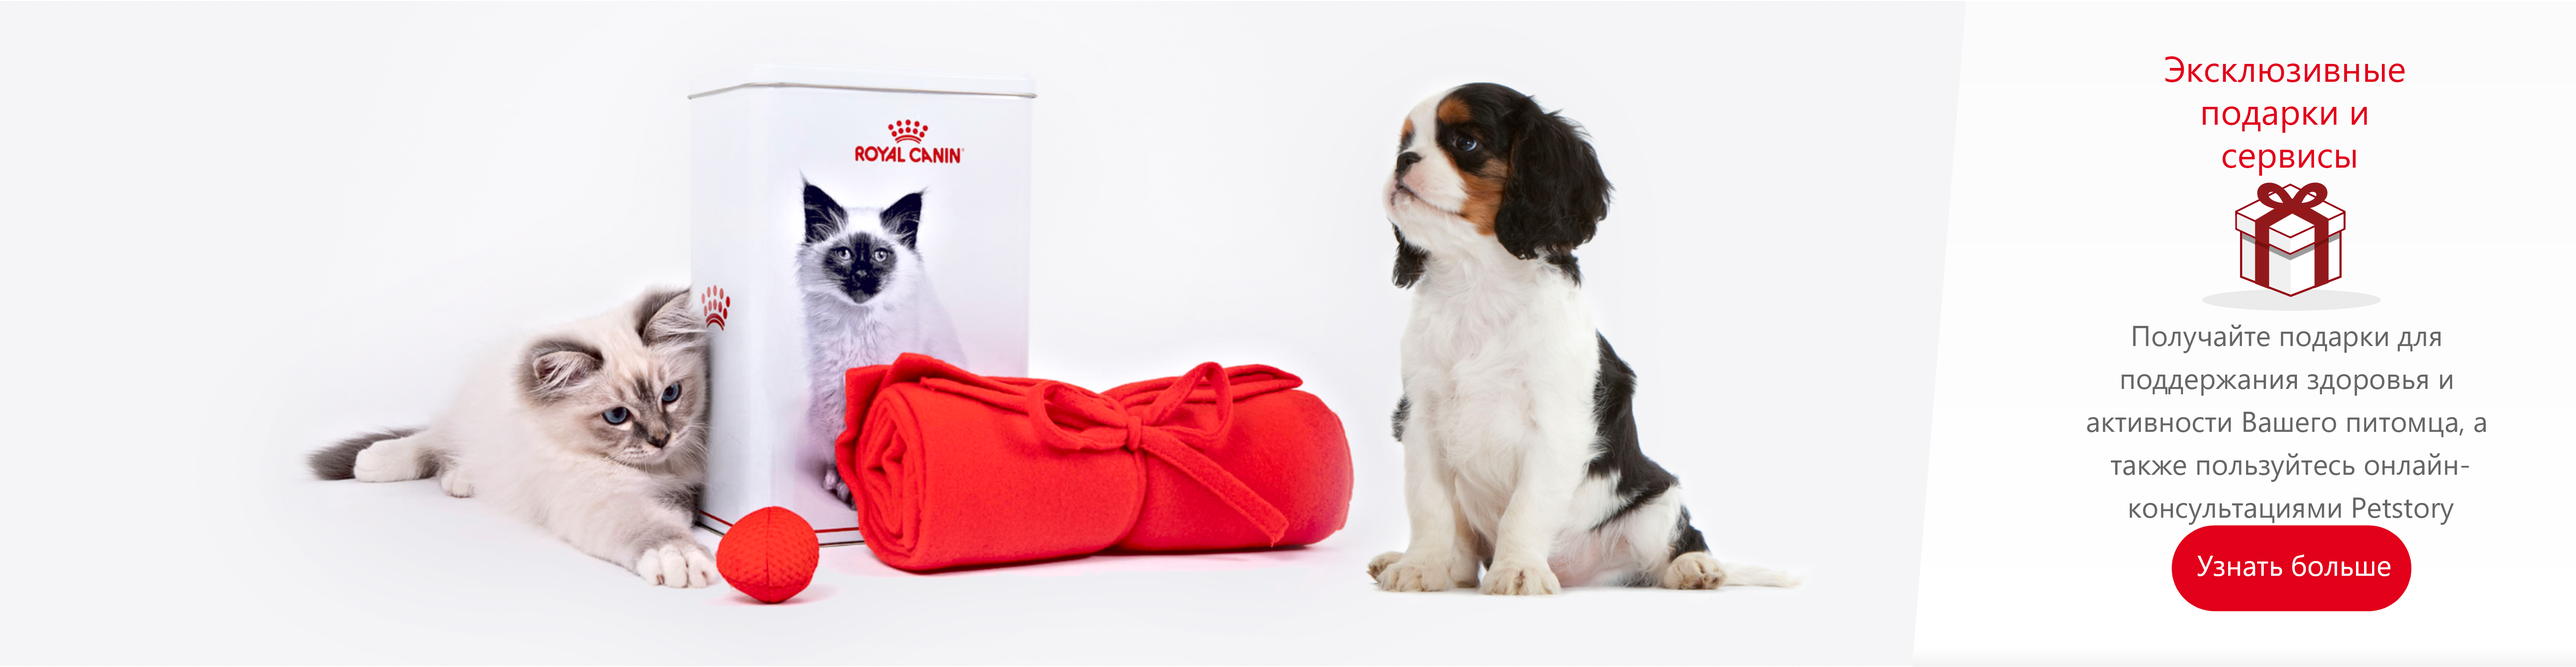
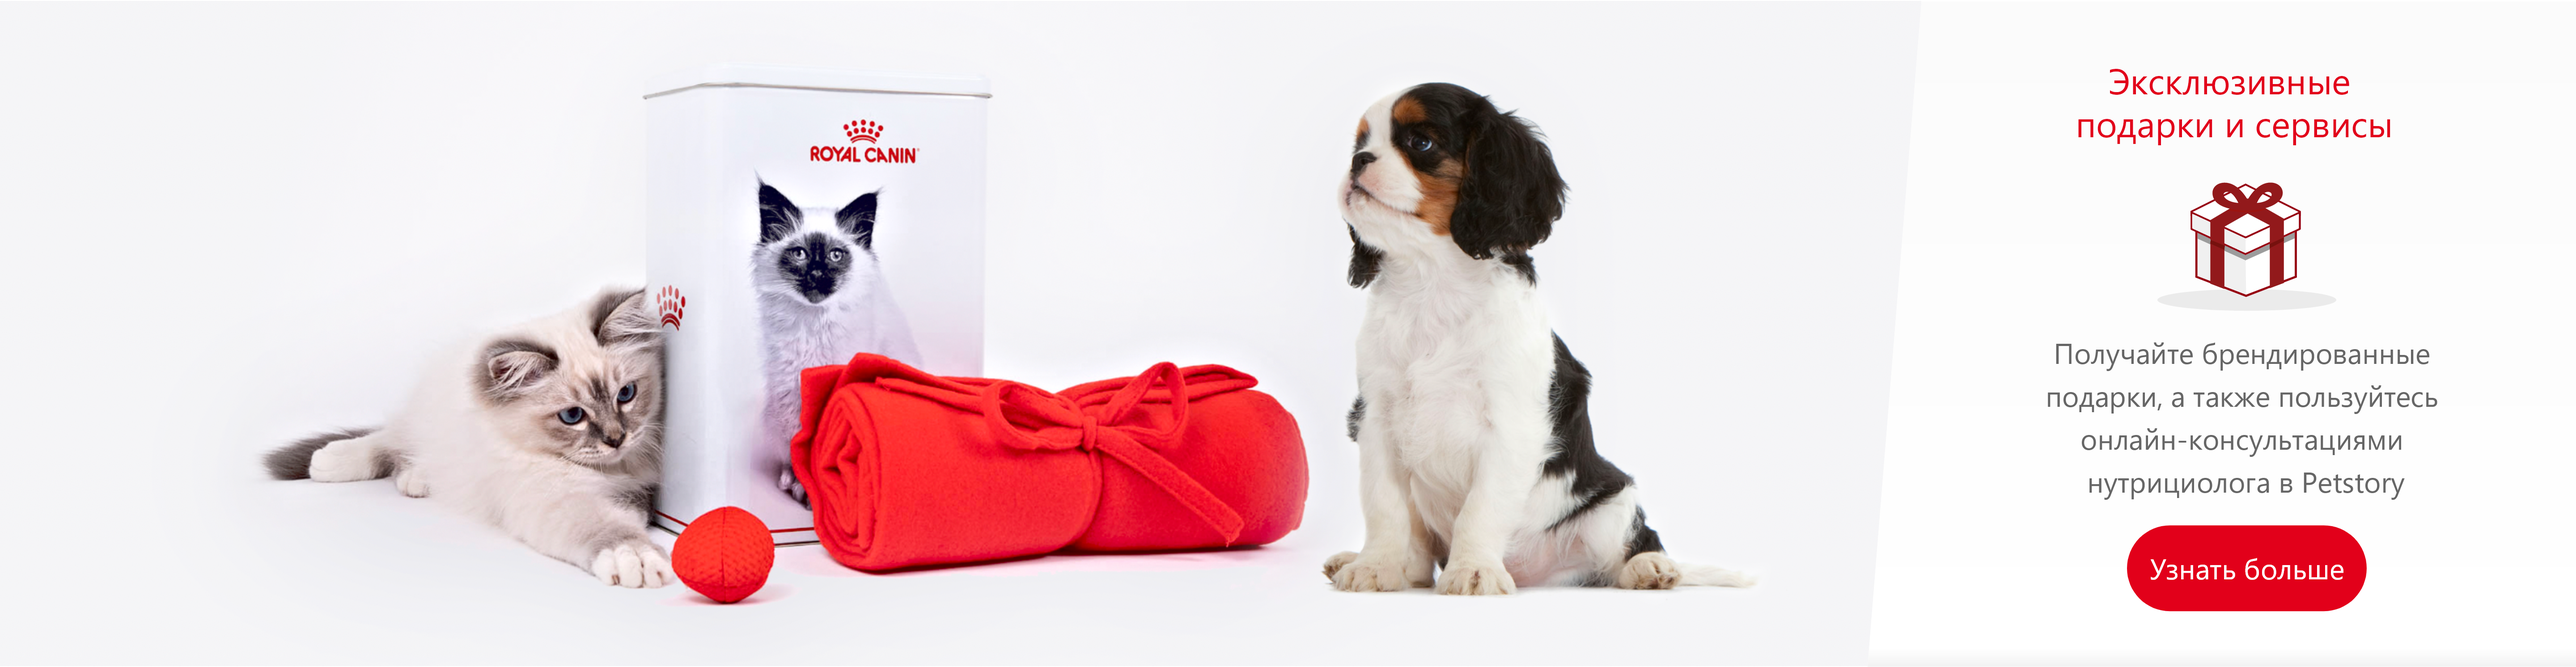
ru-landingppage-fixed

diff --git a/src/views/ClubLandingPage/ClubHeroCarousel/index.js b/src/views/ClubLandingPage/ClubHeroCarousel/index.js
@@ -109,7 +109,7 @@ class ClubHeroCarousel extends React.Component {
               bannerName: 'us_002',
               webUrl: `${Slidertwo}`,
               webImgName: 'WeChat Image_20210225172634.jpg',
-              webSkipUrl: '/subscription-landing',
+              webSkipUrl: '',
               webUuid: 'rc-upload-1614234945878-9',
               mobiUrl: `${Slidermobile2}`,
               mobiImgName: 'WeChat Image_20210225172628.jpg',
@@ -126,31 +126,7 @@ class ClubHeroCarousel extends React.Component {
                 'Мы подберем специализированное питание, поддерживающее здоровое развитие Вашего питомца с учетом его особенностей',
               alt: 'Специализированное питание Royal Canin'
             },
-            // {
-            //   isShow: process.env.REACT_APP_LANG == 'ru' ? false : true,
-            //   bannerId: '2c918085751fa3ad01752099f30a0002',
-            //   storeId: 123457910,
-            //   bannerName: 'us_003',
-            //   webUrl: `${Sliderthree}`,
-            //   webImgName: 'us_003_a.jpg',
-            //   webSkipUrl: '/help',
-            //   webUuid: 'rc-upload-1602569663057-13',
-            //   mobiUrl: `${Slidermobile3}`,
-            //   mobiImgName: 'us_003_b.jpg',
-            //   mobiSkipUrl: '/help',
-            //   mobiUuid: 'rc-upload-1602569663057-15',
-            //   isMobiVideo: '0',
-            //   isVideo: '0',
-            //   delFlag: 0,
-            //   createTime: '2021-02-24 05:55:42.000',
-            //   updateTime: '2021-02-24 05:55:42.000',
-            //   bannerNo: 3,
-            //   sliderTitle:
-            //     'Советы научных сотрудников и экспертов в области питания',
-            //   sliderContent:
-            //     'Воспользуйтесь услугами персонального помощника Службы Заботы  ежедневно с 9 до 21',
-            //   alt: 'Эксперт в области питания животных'
-            // },
+
             {
               isShow: true,
               bannerId: '2c918085751fa3ad01752099f30a0002',
@@ -158,7 +134,7 @@ class ClubHeroCarousel extends React.Component {
               bannerName: 'us_003',
               webUrl: `${Sliderfive}`,
               webImgName: 'us_003_a.jpg',
-              webSkipUrl: '/help',
+              webSkipUrl: '',
               webUuid: 'rc-upload-1602569663057-13',
               mobiUrl: `${Slidermobile5}`,
               mobiImgName: 'us_003_b.jpg',
@@ -182,7 +158,7 @@ class ClubHeroCarousel extends React.Component {
               bannerName: 'us_003',
               webUrl: `${Sliderseven}`,
               webImgName: 'us_003_a.jpg',
-              webSkipUrl: '/help',
+              webSkipUrl: '',
               webUuid: 'rc-upload-1602569663057-13',
               mobiUrl: `${Slidermobile7}`,
               mobiImgName: 'us_003_b.jpg',
@@ -198,6 +174,31 @@ class ClubHeroCarousel extends React.Component {
               sliderContent:
                 'Получайте подарки для поддержания здоровья и активности Вашего питомца, а также пользуйтесь онлайн-консультациями Petstory',
               alt: 'Подарки для питомцев'
+            },
+            {
+              isShow: true,
+              bannerId: '2c918085751fa3ad01752099f30a0002',
+              storeId: 123457910,
+              bannerName: 'us_003',
+              webUrl: `${Sliderthree}`,
+              webImgName: 'us_003_a.jpg',
+              webSkipUrl: '',
+              webUuid: 'rc-upload-1602569663057-13',
+              mobiUrl: `${Slidermobile3}`,
+              mobiImgName: 'us_003_b.jpg',
+              mobiSkipUrl: '/help',
+              mobiUuid: 'rc-upload-1602569663057-15',
+              isMobiVideo: '0',
+              isVideo: '0',
+              delFlag: 0,
+              createTime: '2021-02-24 05:55:42.000',
+              updateTime: '2021-02-24 05:55:42.000',
+              bannerNo: 3,
+              sliderTitle:
+                'Советы научных сотрудников и экспертов в области питания',
+              sliderContent:
+                'Воспользуйтесь услугами персонального помощника Службы Заботы  ежедневно с 9 до 21',
+              alt: 'Эксперт в области питания животных'
             }
           ]
         })

diff --git a/src/lang/ru_RU.js b/src/lang/ru_RU.js
@@ -1016,7 +1016,8 @@ const ru_RU = {
     'Ваш персональный помощник Службы Заботы с 9 до 21',
   'club.subscription.icon4':
     'Автоматическое пополнение запасов корма с бесплатной доставкой при подписке на сумму от 2500 руб.',
-  'club.subscription.icon5': 'Возможность изменения частоты доставок',
+  'club.subscription.icon5':
+    'Бесплатные онлайн-консультации нутрициолога в Petstory',
   'club.subscription.icon6':
     'Бесплатные онлайн консультации нутрициолога в PetStory',
   'club.subscription.button': 'Начать',
